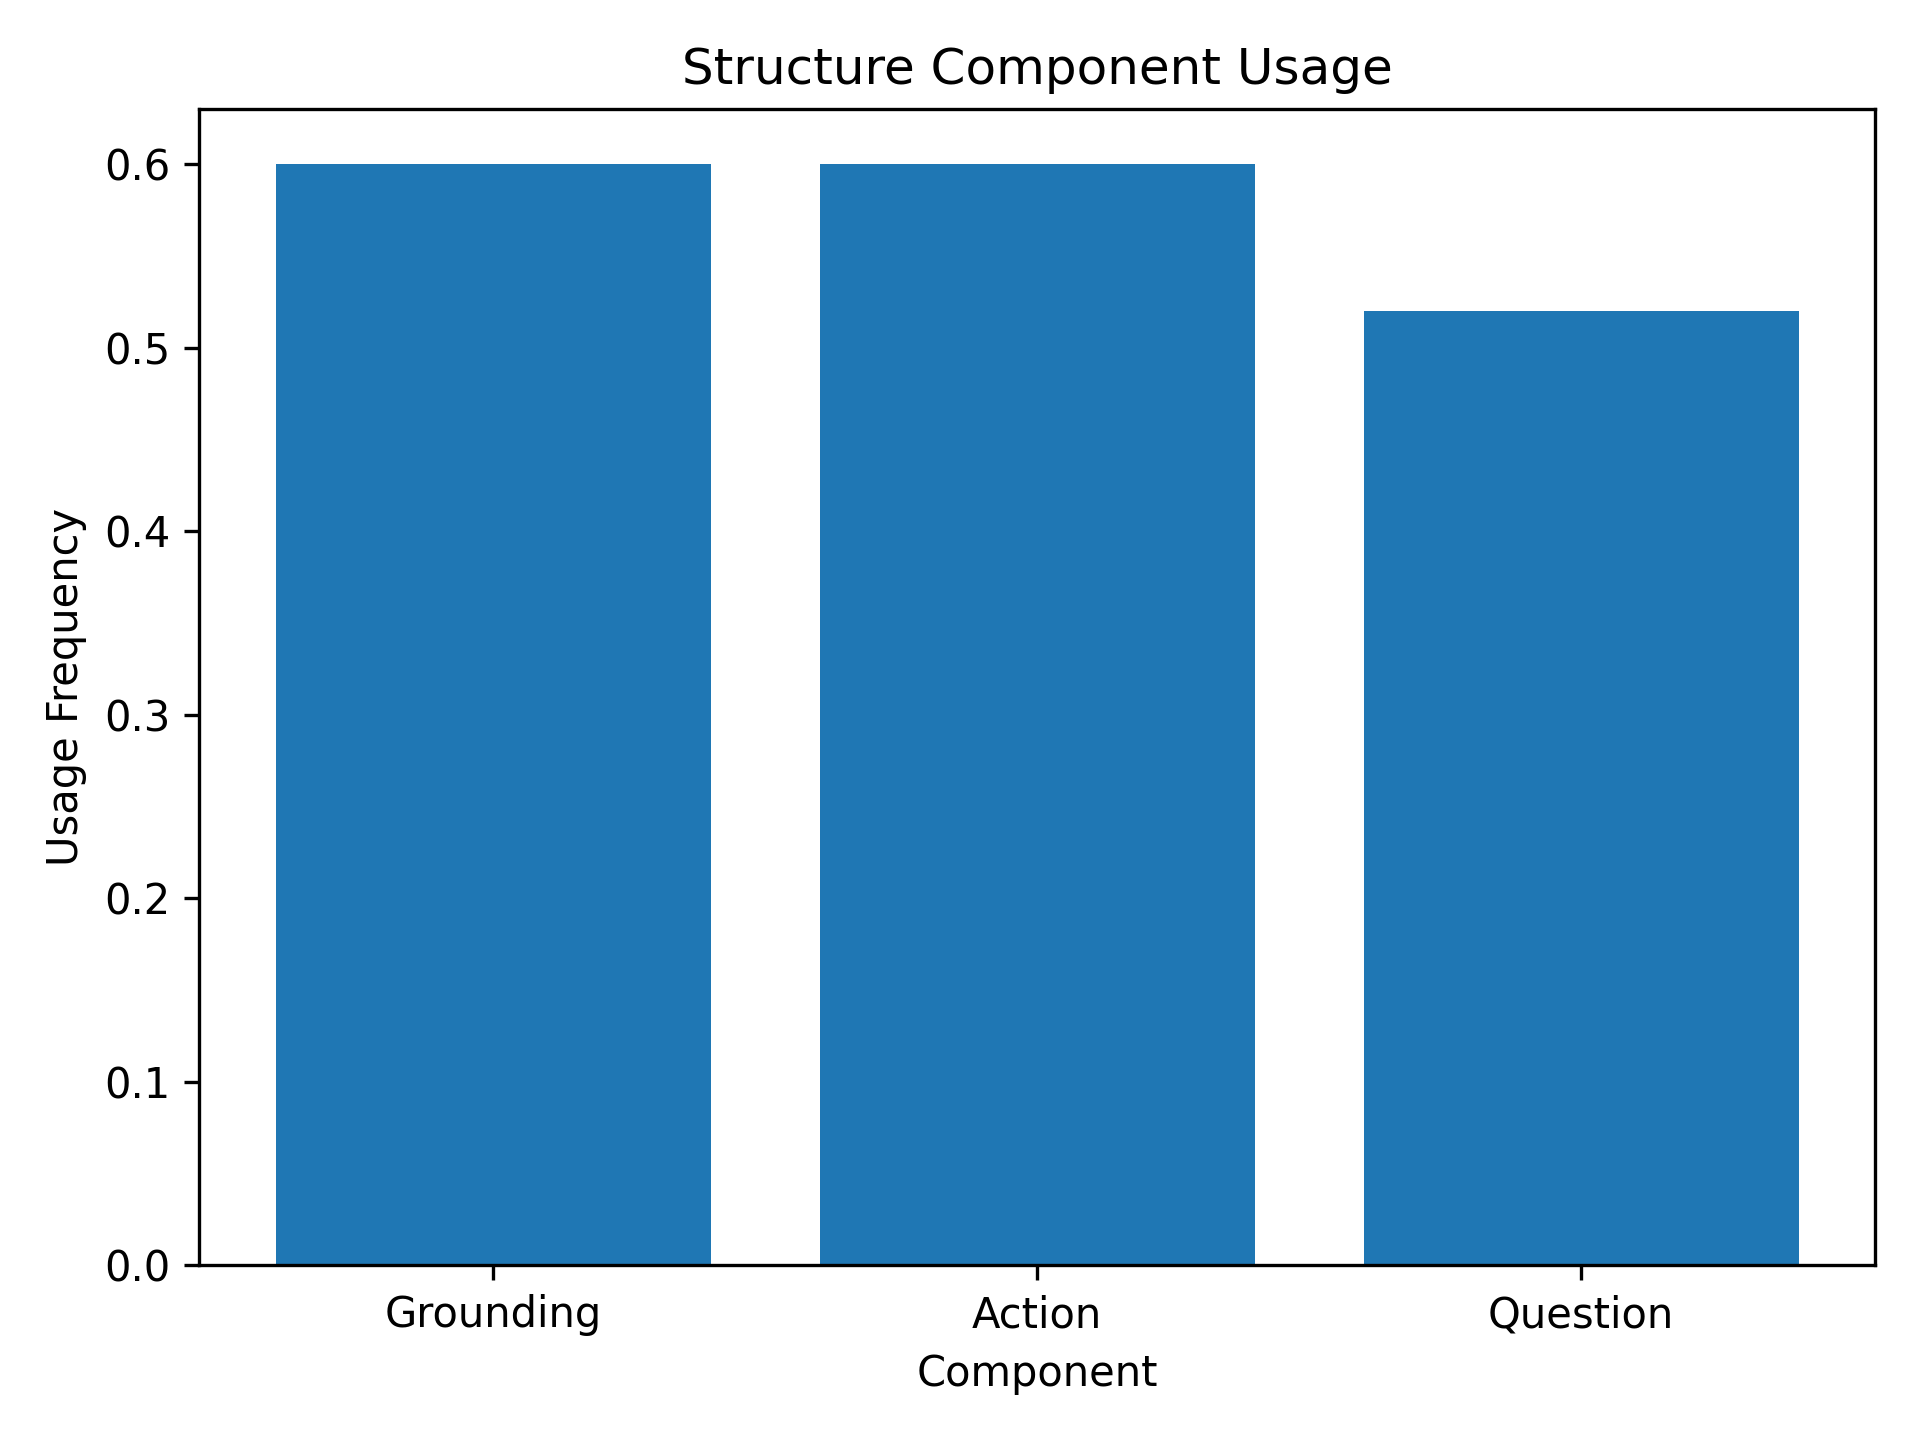
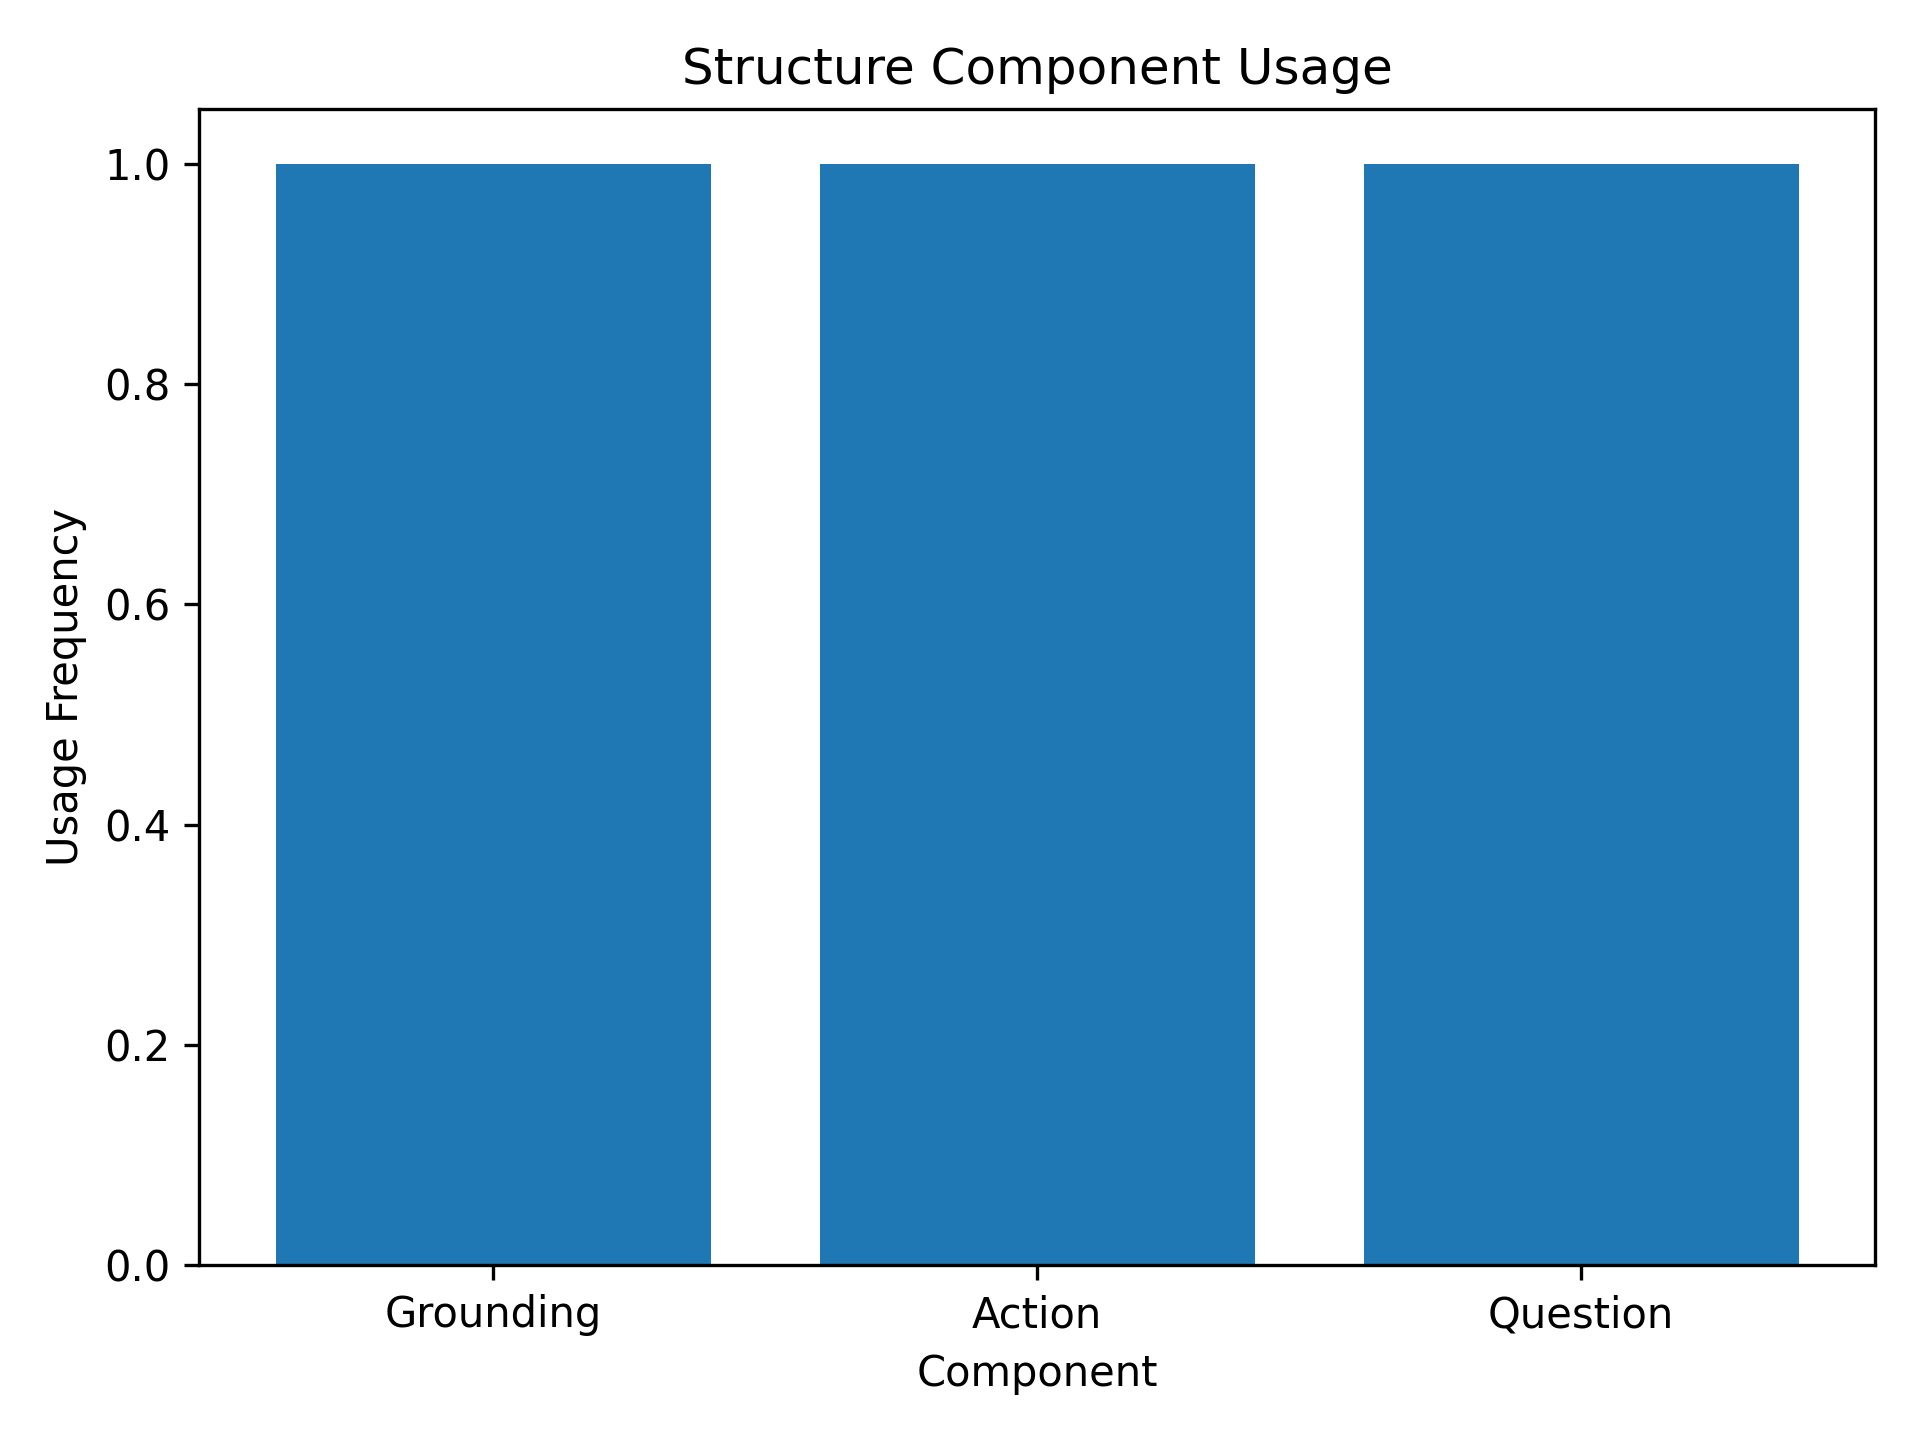
Final balanced scoring: stable GA convergence with safety + empathy preserved

diff --git a/src/generation/response_generator.py b/src/generation/response_generator.py
@@ -273,22 +273,48 @@ def assemble_prompt_trace(
 
     # Genome still influences whether structure is likely
     if g.w_c < 0.25:
-        grounding_prob *= 0.50
-        action_prob *= 0.50
-        question_prob *= 0.70
+        grounding_prob *= 0.30
+        action_prob *= 0.30
+        question_prob *= 0.50
 
     elif g.w_c >= 0.45:
         grounding_prob = min(1.0, grounding_prob + 0.15)
         action_prob = min(1.0, action_prob + 0.15)
 
-    if maybe_add(parts, grounding_line, grounding_prob, rnd):
+    elif g.w_c >= 0.40:
+        grounding_prob = max(grounding_prob, 0.65)
+        action_prob = max(action_prob, 0.65)
+
+    
+
+    # Strong structure enforcement when genome supports it
+    
+    if g.w_c >= 0.5:
+        # strong structure
+
+        for block in [grounding_line, action_line, question_line]:
+            if block:
+                parts.append(block)
+
         chosen_grounding = grounding_line
-
-    if maybe_add(parts, action_line, action_prob, rnd):
         chosen_action = action_line
-
-    if maybe_add(parts, question_line, question_prob, rnd):
         chosen_question = question_line
+
+    elif g.w_c >= 0.3:
+        # medium structure
+        structure_blocks = [grounding_line, action_line, question_line]
+        rnd.shuffle(structure_blocks)
+
+    else:
+        # Original probabilistic behavior
+        if maybe_add(parts, grounding_line, grounding_prob, rnd):
+            chosen_grounding = grounding_line
+
+        if maybe_add(parts, action_line, action_prob, rnd):
+            chosen_action = action_line
+
+        if maybe_add(parts, question_line, question_prob, rnd):
+            chosen_question = question_line
 
     # ======================
     # Controlled fallback

diff --git a/src/evaluation/scoring.py b/src/evaluation/scoring.py
@@ -166,7 +166,7 @@ def length_penalty(resp: str) -> float:
 
 def fitness(g: Genome, data: pd.DataFrame) -> float:
     # empathy, safety, structure, length penalty
-    A, B, C, D = 0.38, 0.45, 0.17, 0.05
+    A, B, C, D = 0.40, 0.40, 0.15, 0.05
 
     vals = []
 
@@ -183,12 +183,28 @@ def fitness(g: Genome, data: pd.DataFrame) -> float:
         # Hard safety constraint
         if row["risk_label"] == "high" and s < 1.0:
             score -= 0.50
+        
+        if s < 0.94:
+            score -= 0.15
 
-        # Structural completeness constraint
+        # --- SOFT CONSTRAINTS (SMOOTHED) ---
+
+        
         if c < 0.7:
-            score -= 0.10
-        if e < 0.6:
-            score -= 0.20
+            score -= 0.10 * (0.7 - c) / 0.7
+
+        # Empathy penalty (smooth)
+        if e < 0.62:
+            score -= 0.18 * (0.62 - e) / 0.62
+
+        # --- POSITIVE REINFORCEMENT ---
+        score += 0.05 * e
+        score += 0.05 * c
+
+
+        c_effective = min(c, 0.8)
+        score += 0.05 * c_effective
+
 
         vals.append(score)
 